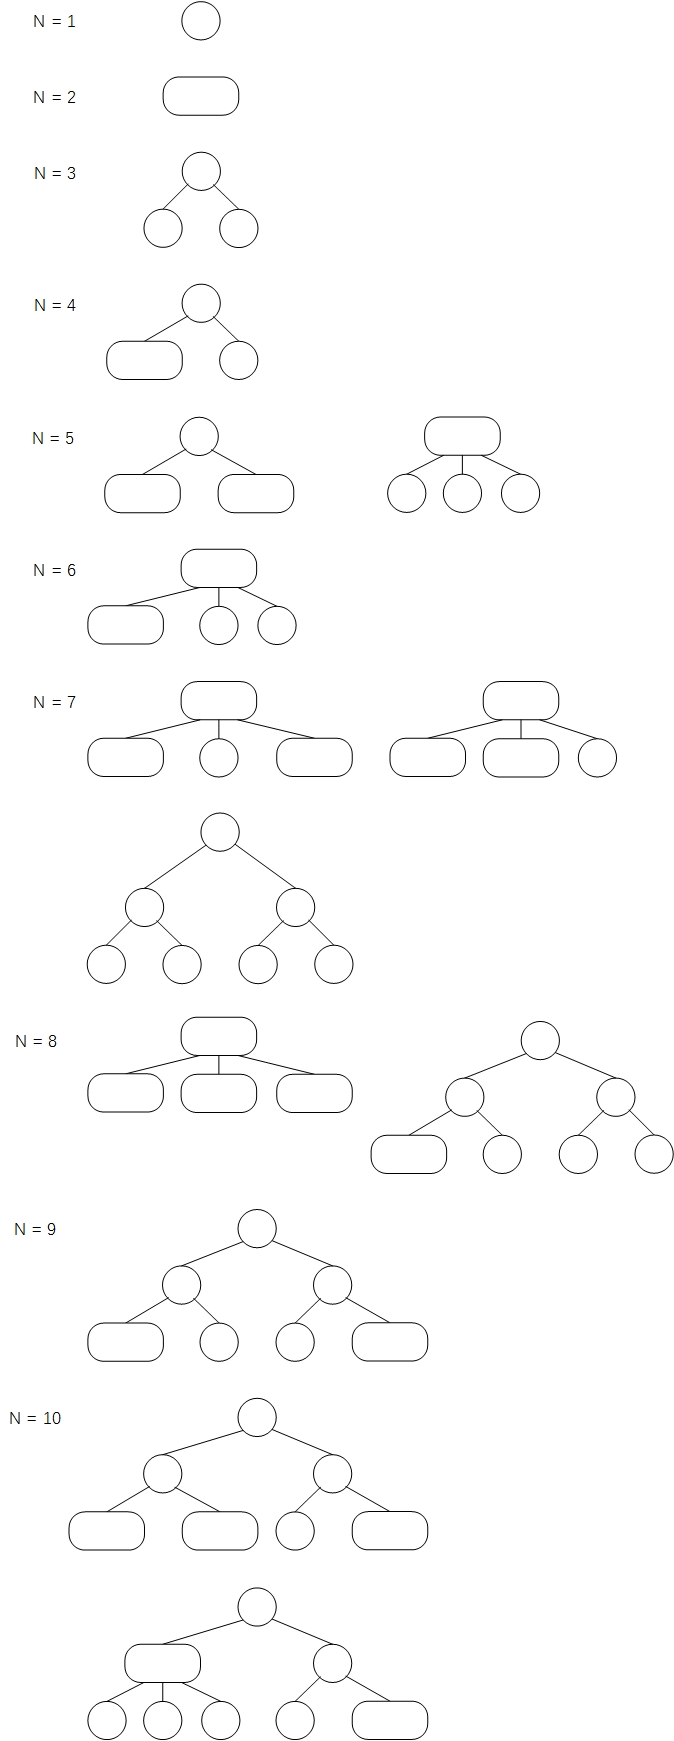
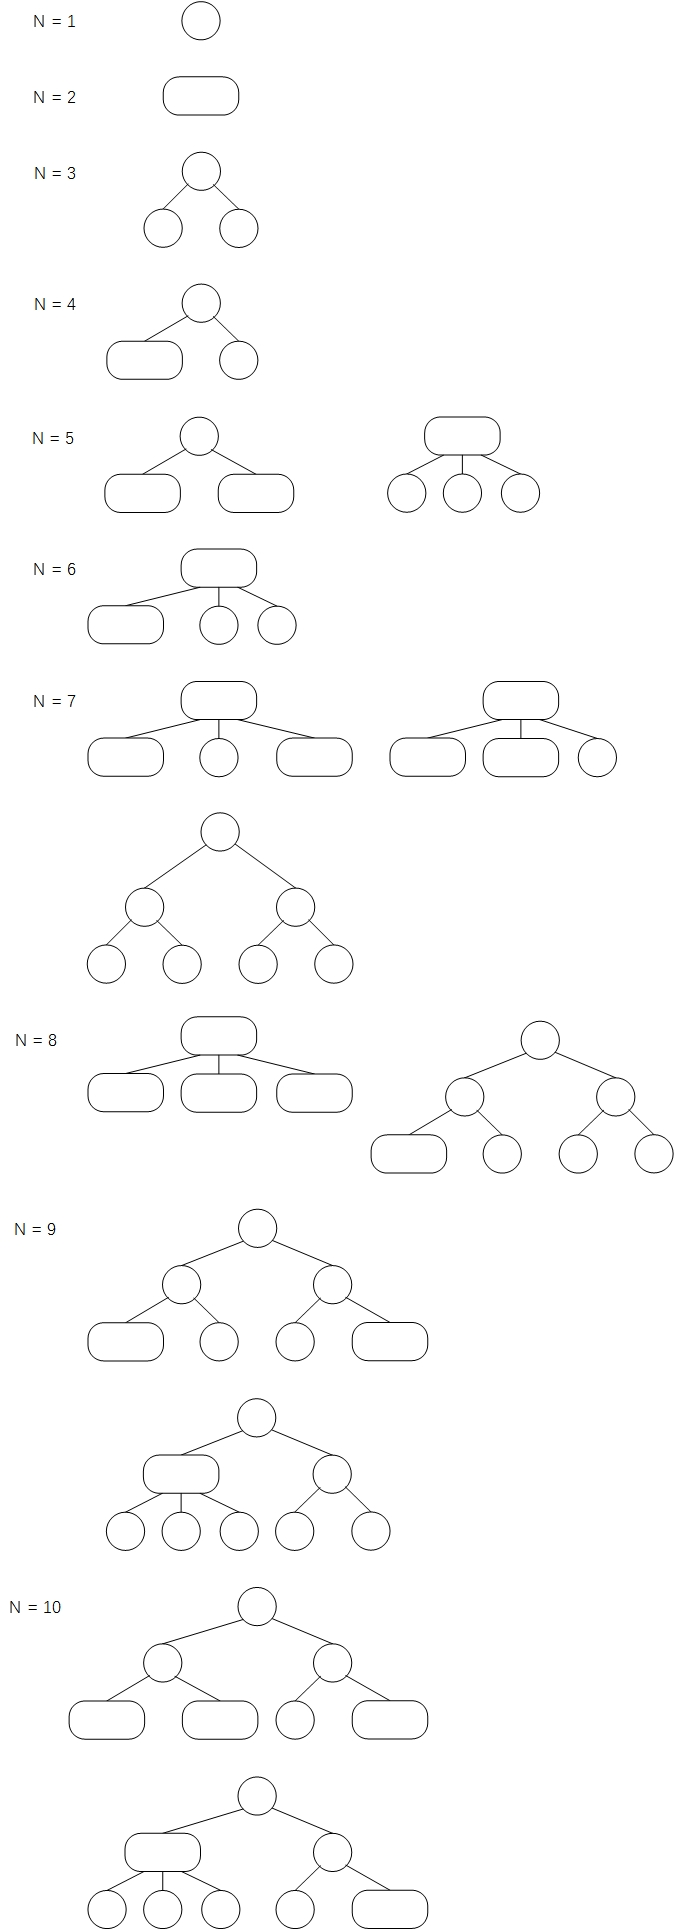
算法3.3习题

diff --git a/src/main/java/org/three/three/exercises/Exercise13.java b/src/main/java/org/three/three/exercises/Exercise13.java
@@ -1,0 +1,20 @@
+package org.three.three.exercises;
+
+/**
+ * 3.3.13 真假判断：如果你按照升序将键插入一棵红黑树中，树的高度是单调递增的。
+ *
+ * @author cheng
+ *         2018/3/2 15:16
+ */
+public class Exercise13 {
+    /*
+     *
+     * 真命题；
+     * 见 FlowChart 3.3.13.jpg
+     *
+     * 每插入一个结点，树高要么保持不变，要么在叶子形成 3- 结点，首先分裂，然后将 2- 结点向上传递
+     * 当 2- 结点传递到根结点并形成 3- 结点时，树高加 1
+     * 因此，每插入一个结点，树高要么不变，要么加 1
+     *
+     */
+}

diff --git a/src/main/java/org/three/three/exercises/Exercise17.java b/src/main/java/org/three/three/exercises/Exercise17.java
@@ -1,0 +1,21 @@
+package org.three.three.exercises;
+
+/**
+ * 3.3.17 随机生成两棵均含有16个结点的红黑树。画出它们并将它们和
+ * 使用同一组键构造的非平衡的二叉查找树进行比较。
+ *
+ * @author cheng
+ *         2018/3/2 16:30
+ */
+public class Exercise17 {
+    /*
+     *
+     * 结点较少时形成的二叉查找树高度不一定大于红黑树，但内部路径长度一定小于红黑树；
+     * 这代表随机命中查找所需的平均比较次数一定大于红黑树；
+     *
+     * 红黑树查找次数更少；
+     *
+     * 见 FlowChart 3.3.17
+     *
+     */
+}

diff --git a/src/main/java/org/three/three/exercises/Exercise14.java b/src/main/java/org/three/three/exercises/Exercise14.java
@@ -1,0 +1,19 @@
+package org.three.three.exercises;
+
+/**
+ * 3.3.14  用字母A到K按顺序构造一棵红黑树并画出结果，
+ * 然后大致说明在按照升序插入键来构造一棵红黑树的过程中发生了什么。
+ * （可以参考正文中的图例）
+ *
+ * @author cheng
+ *         2018/3/2 15:40
+ */
+public class Exercise14 {
+    /*
+     *
+     * 即按照升序构造红黑树，如 3.3.14
+     *
+     * 每次插入的结点是最大结点；
+     *
+     */
+}

diff --git a/src/main/java/org/three/three/exercises/Exercise4.java b/src/main/java/org/three/three/exercises/Exercise4.java
@@ -18,7 +18,7 @@ public class Exercise4 {
      * 我们可以得到，假如这 N 个结点恰好满足构造出一棵只有 2- 结点的树，那么此时树高为最大
      * 即 floor（logN/log2）
      *
-     * 如果这 N 个结点恰好满足构造出一颗只有 3- 结点的树，那么此时树高为最小
+     * 如果这 N 个结点恰好满足构造出一棵只有 3- 结点的树，那么此时树高为最小
      * 即 floor（logN/log3）
      *
      */

diff --git a/src/main/java/org/three/three/exercises/Exercise10.java b/src/main/java/org/three/three/exercises/Exercise10.java
@@ -1,13 +1,13 @@
 package org.three.three.exercises;
 
 /**
- * 3.3.10 将含有键 E A S Y Q U T I O N 的结点按顺序插入一颗空红黑树并画出结果。
+ * 3.3.10 将含有键 E A S Y Q U T I O N 的结点按顺序插入一棵空红黑树并画出结果。
  *
  * @author cheng
  *         2018/3/1 19:34
  */
 public class Exercise10 {
-     /*
+    /*
      *
      * 见 FlowChart 3.3.10.jpg
      *

diff --git a/src/main/java/org/three/three/exercises/Exercise15.java b/src/main/java/org/three/three/exercises/Exercise15.java
@@ -1,0 +1,18 @@
+package org.three.three.exercises;
+
+/**
+ * 3.3.15 在键按照降序插入红黑树的情况下重新回答上面两道练习。
+ *
+ * @author cheng
+ *         2018/3/2 16:00
+ */
+public class Exercise15 {
+    /*
+     *
+     * 见 FlowChart 3.3.15.jpg
+     *
+     * 每次插入的结点是最小结点；
+     * 满足3.1.13的命题；
+     *
+     */
+}

diff --git a/src/main/java/org/three/three/exercises/Exercise16.java b/src/main/java/org/three/three/exercises/Exercise16.java
@@ -1,0 +1,16 @@
+package org.three.three.exercises;
+
+/**
+ * 3.3.16 向右图所示的红黑树中插入 n 并画出结果。
+ * （图中显示了插入时的查找路径，你的解答中只需要包含这些结点即可）
+ *
+ * @author cheng
+ *         2018/3/2 16:10
+ */
+public class Exercise16 {
+    /*
+     *
+     * 见 FlowChart 3.3.16.jpg
+     *
+     */
+}

diff --git a/src/main/java/org/three/three/exercises/Exercise12.java b/src/main/java/org/three/three/exercises/Exercise12.java
@@ -1,0 +1,15 @@
+package org.three.three.exercises;
+
+/**
+ * 3.3.12 在我们的标准索引测试用例中插入键P并画出插入的过程中每次变换（颜色转换或旋转）后的红黑树。
+ *
+ * @author cheng
+ *         2018/3/2 11:43
+ */
+public class Exercise12 {
+    /*
+     *
+     * 见 FlowChart 3.3.12.jpg
+     *
+     */
+}

diff --git a/src/main/java/org/three/three/exercises/Exercise11.java b/src/main/java/org/three/three/exercises/Exercise11.java
@@ -1,0 +1,15 @@
+package org.three.three.exercises;
+
+/**
+ * 3.3.11 将含有键 Y L P M X H C R A E S 的结点按顺序插入一棵红黑树并画出结果。
+ *
+ * @author cheng
+ *         2018/3/2 11:10
+ */
+public class Exercise11 {
+    /*
+     *
+     * 见 FlowChart 3.3.11.jpg
+     *
+     */
+}

diff --git a/src/main/java/org/three/three/exercises/Exercise3.java b/src/main/java/org/three/three/exercises/Exercise3.java
@@ -1,7 +1,7 @@
 package org.three.three.exercises;
 
 /**
- * 3.3.3 使用什么顺序插入键 S E A C H X M 能够得到一颗高度为1的 2-3 树？
+ * 3.3.3 使用什么顺序插入键 S E A C H X M 能够得到一棵高度为1的 2-3 树？
  *
  * @author cheng
  *         2018/3/1 12:43

diff --git a/src/main/java/org/three/three/exercises/Exercise2.java b/src/main/java/org/three/three/exercises/Exercise2.java
@@ -1,7 +1,7 @@
 package org.three.three.exercises;
 
 /**
- * 3.3.2 将键 Y L P M X H C R A E S 按顺序插入一颗空 2-3 树并画出结果。
+ * 3.3.2 将键 Y L P M X H C R A E S 按顺序插入一棵空 2-3 树并画出结果。
  *
  * @author cheng
  *         2018/3/1 12:18

diff --git a/src/main/java/org/three/three/exercises/Exercise1.java b/src/main/java/org/three/three/exercises/Exercise1.java
@@ -1,7 +1,7 @@
 package org.three.three.exercises;
 
 /**
- * 3.3.1 将键 E A S Y Q U T I O N 按顺序插入一颗空 2-3 树并画出结果。
+ * 3.3.1 将键 E A S Y Q U T I O N 按顺序插入一棵空 2-3 树并画出结果。
  *
  * @author cheng
  *         2018/3/1 11:06
